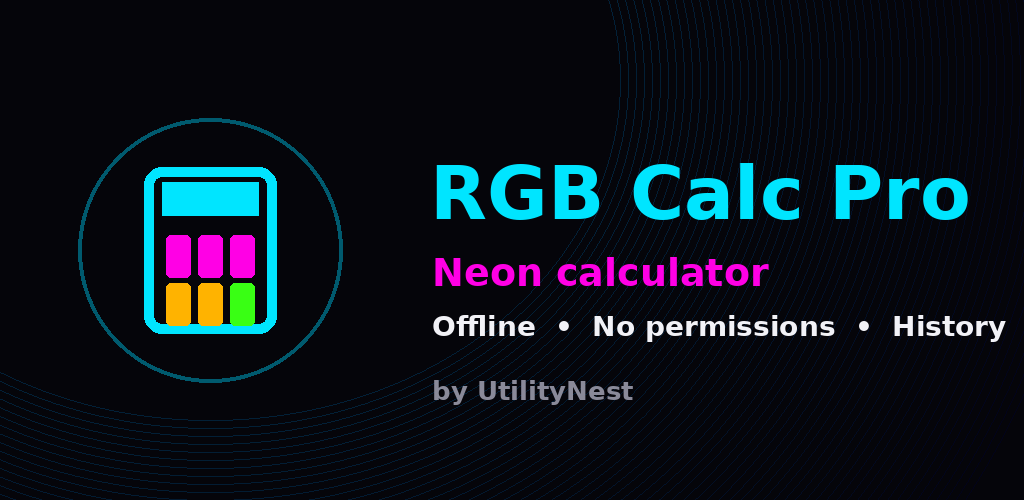
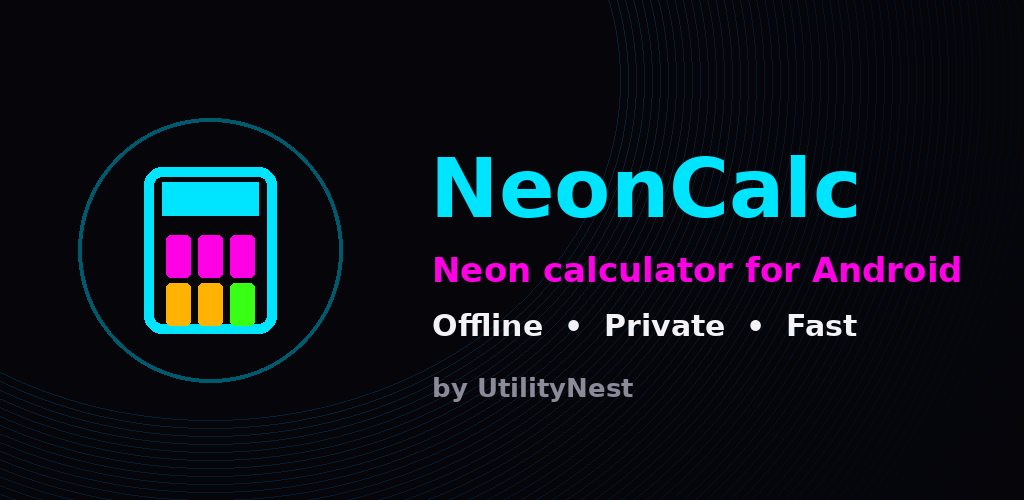
v1.2: rename to NeonCalc, target Android 16 (API 36), new toolchain, refreshed assets

diff --git a/docs/index.html b/docs/index.html
@@ -3,7 +3,7 @@
 <head>
 <meta charset="utf-8">
 <meta name="viewport" content="width=device-width, initial-scale=1">
-<title>RGB Calc Pro — Privacy Policy</title>
+<title>NeonCalc — Privacy Policy</title>
 <style>
   :root { --cyan:#00e5ff; --mag:#ff00e5; --green:#39ff14; --dim:#8a8a99; }
   * { box-sizing: border-box; }
@@ -35,12 +35,12 @@
 <body>
 <div class="wrap">
   <header>
-    <h1>RGB Calc Pro</h1>
+    <h1>NeonCalc</h1>
     <div class="sub">Privacy Policy &nbsp;&middot;&nbsp; Developer: UtilityNest &nbsp;&middot;&nbsp; Effective 13 October 2026</div>
   </header>
 
   <div class="box">
-    <p style="margin:0"><strong>Short version:</strong> RGB Calc Pro collects no
+    <p style="margin:0"><strong>Short version:</strong> NeonCalc collects no
     personal data, requests no device permissions, and never connects to the
     internet. Everything you type stays on your own phone.</p>
   </div>
@@ -89,7 +89,7 @@
   <a href="mailto:lonefaisal977@gmail.com">lonefaisal977@gmail.com</a>.</p>
 
   <footer>
-    RGB Calc Pro is published by UtilityNest. This page is the official privacy
+    NeonCalc is published by UtilityNest. This page is the official privacy
     policy for the app and is provided for Google Play store listing purposes.
   </footer>
 </div>

diff --git a/app/src/main/java/com/utilitynest/neoncalc/MainActivity.kt b/app/src/main/java/com/utilitynest/neoncalc/MainActivity.kt
@@ -1,4 +1,4 @@
-package com.utilitynest.rgbcalcpro
+package com.utilitynest.neoncalc
 
 import android.animation.ValueAnimator
 import android.content.res.ColorStateList

diff --git a/app/src/main/java/com/utilitynest/neoncalc/SoundManager.kt b/app/src/main/java/com/utilitynest/neoncalc/SoundManager.kt
@@ -1,4 +1,4 @@
-package com.utilitynest.rgbcalcpro
+package com.utilitynest.neoncalc
 
 import android.media.AudioManager
 import android.media.ToneGenerator

diff --git a/app/src/main/java/com/utilitynest/neoncalc/HistoryAdapter.kt b/app/src/main/java/com/utilitynest/neoncalc/HistoryAdapter.kt
@@ -1,4 +1,4 @@
-package com.utilitynest.rgbcalcpro
+package com.utilitynest.neoncalc
 
 import android.view.LayoutInflater
 import android.view.View

diff --git a/app/src/main/java/com/utilitynest/neoncalc/HistoryManager.kt b/app/src/main/java/com/utilitynest/neoncalc/HistoryManager.kt
@@ -1,4 +1,4 @@
-package com.utilitynest.rgbcalcpro
+package com.utilitynest.neoncalc
 
 import android.content.Context
 import org.json.JSONArray

diff --git a/app/src/main/java/com/utilitynest/neoncalc/ExpressionEvaluator.kt b/app/src/main/java/com/utilitynest/neoncalc/ExpressionEvaluator.kt
@@ -1,4 +1,4 @@
-package com.utilitynest.rgbcalcpro
+package com.utilitynest.neoncalc
 
 import java.util.Locale
 import kotlin.math.abs

diff --git a/app/src/main/java/com/utilitynest/neoncalc/SettingsManager.kt b/app/src/main/java/com/utilitynest/neoncalc/SettingsManager.kt
@@ -1,4 +1,4 @@
-package com.utilitynest.rgbcalcpro
+package com.utilitynest.neoncalc
 
 import android.content.Context
 

diff --git a/README.md b/README.md
@@ -1,4 +1,4 @@
-# RGB Calc Pro
+# NeonCalc
 
 A neon cyberpunk calculator for Android, built with Kotlin and standard XML
 layouts. Published under the **UtilityNest** developer account.
@@ -22,7 +22,7 @@ The app is built automatically by GitHub Actions on every push (see
 ### How to download the build
 
 1. Open the **Actions** tab of this repository.
-2. Click the newest green run named *Build RGB Calc Pro*.
+2. Click the newest green run named *Build NeonCalc*.
 3. Scroll to **Artifacts** and download `rgb-calc-pro-release-aab`.
 
 ## Signing
